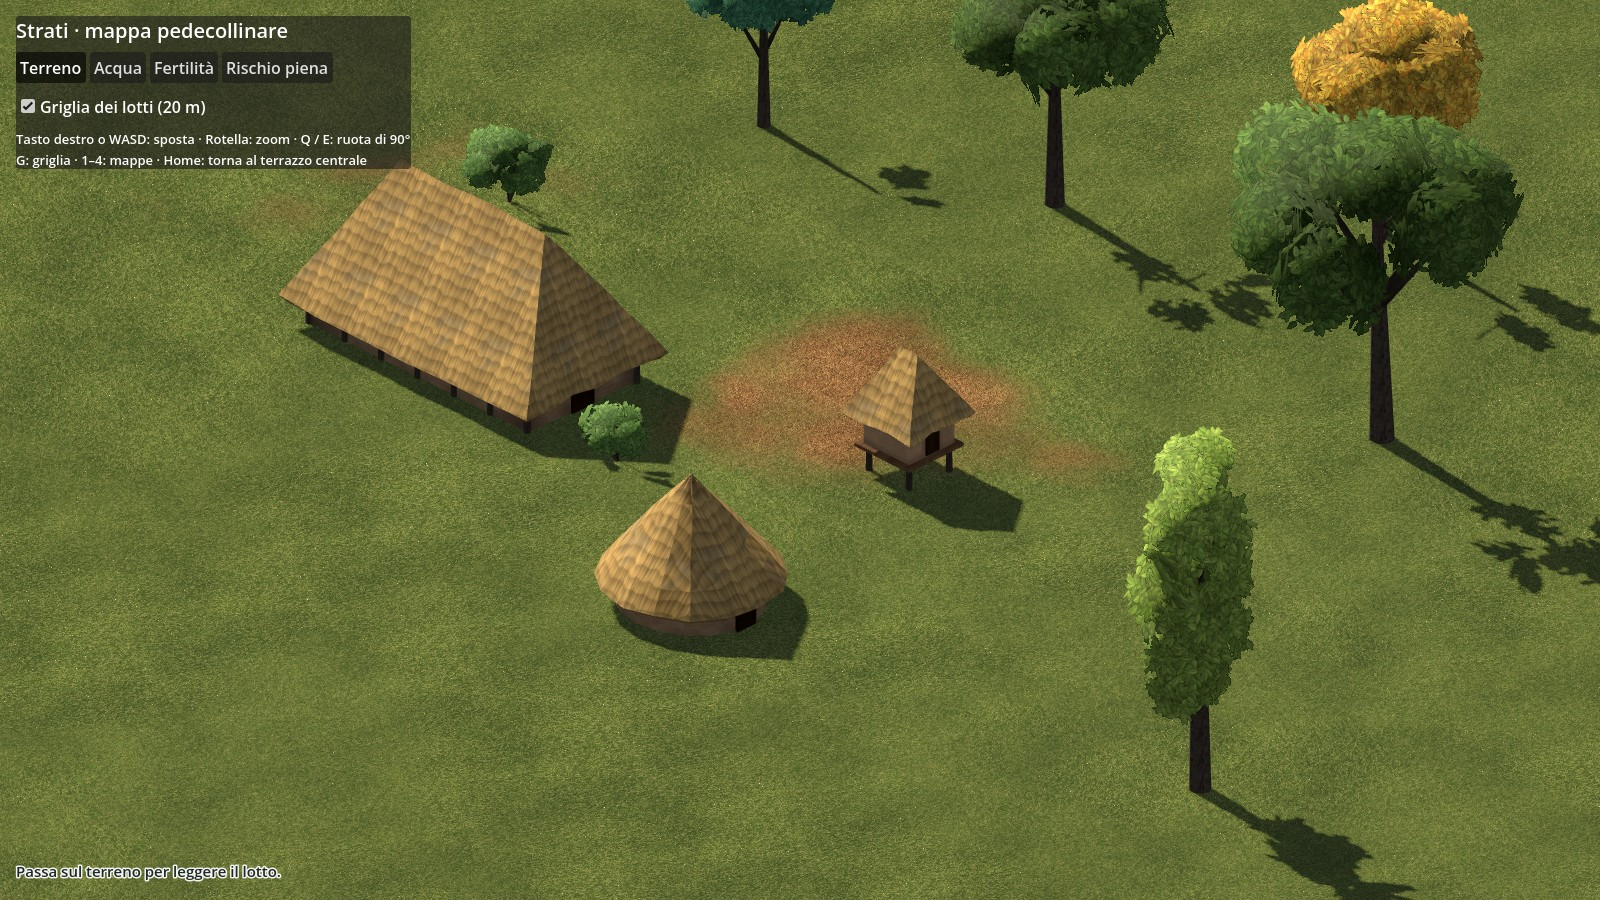
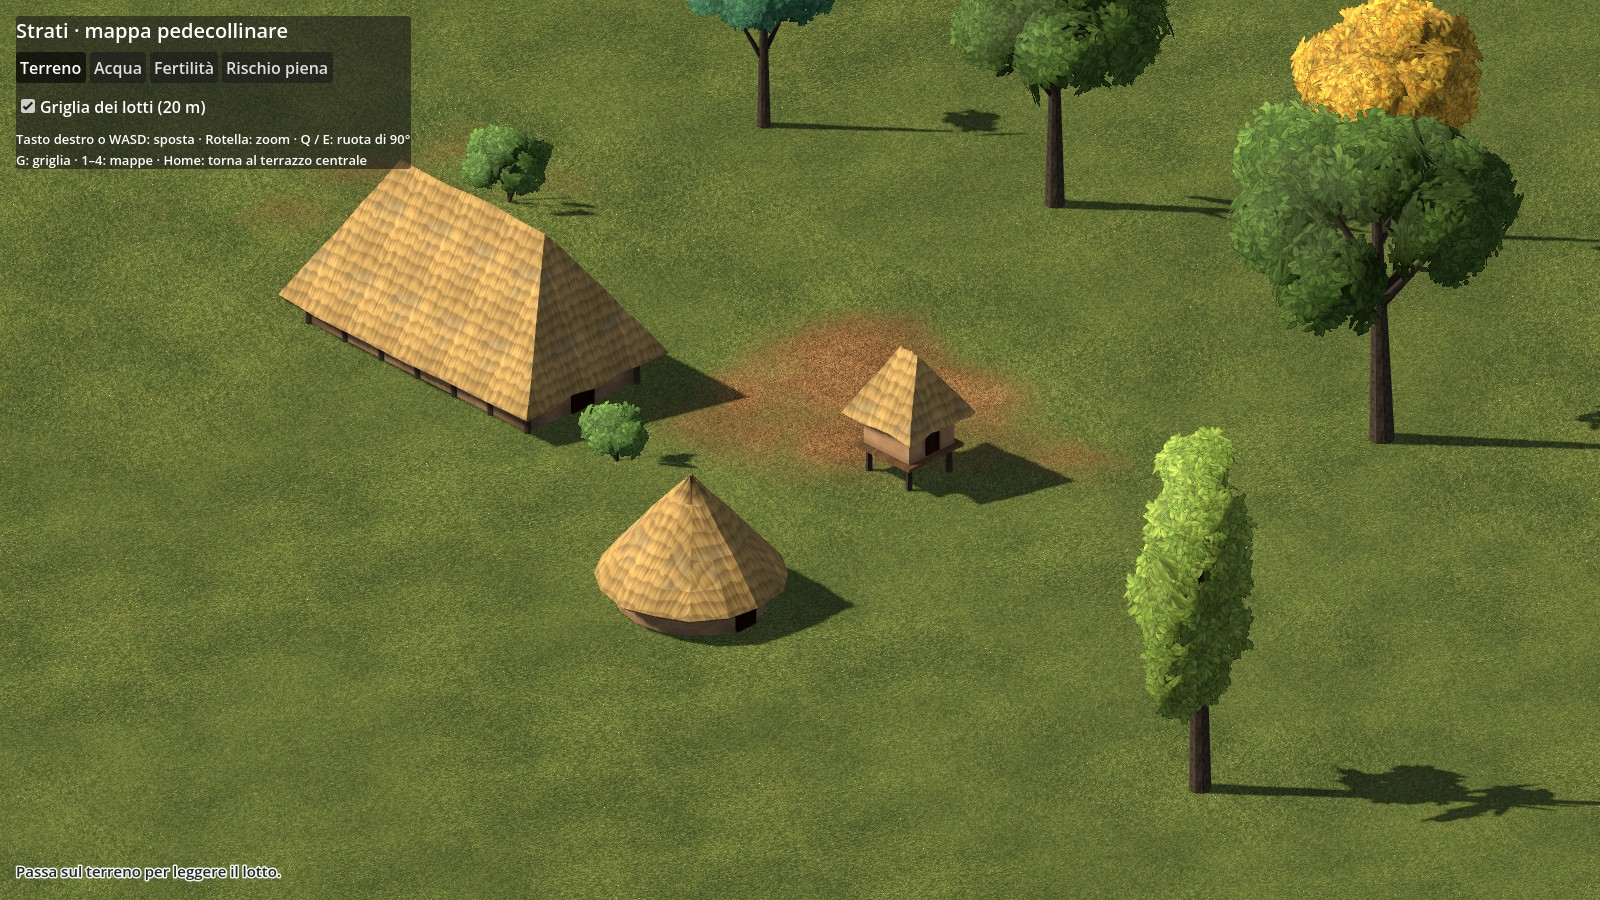
Sole da sinistra con ombre lunghe verso destra, come chiesto da Fede
Claude-Session: https://claude.ai/code/session_01N4eDGmuEoEcJQdC5u5KEMd

diff --git a/docs/diario.md b/docs/diario.md
@@ -12,7 +12,7 @@ Voci più recenti in cima.
 - **Base del progetto Godot** (`gioco/`): terreno 3D della mappa pedecollinare (10 × 10 km, griglia da 40 m, esagerazione verticale 1,5) con tinte ipsometriche, boschi, paludi, isoipse ogni 25 m e acque dai bordi morbidi; camera isometrica ortografica che ruota a scatti di 90° (Q/E), zoom con la rotella, spostamento con WASD o tasto destro; mappe tematiche Terreno, Acqua, Fertilità, Rischio piena (tasti 1–4); griglia dei lotti da 20 m visibile da vicino (G); lettura del lotto sotto il puntatore; etichette dei sei siti. Verifiche senza grafica tutte superate; immagini reali in `docs/immagini/`.
 - Primo lotto di asset in stile "plastico architettonico" (11 modelli): **scartato da Fede**, che vuole uno stile verosimile anche nei colori e alberi meno poligonali. Rimossi dal repository (restano nella cronologia di Git).
 - **Prova di stile verosimile** (`gioco/asset/prove_stile/`, 5 modelli: casa lunga, capanna tonda, granaio, due querce): texture procedurali generate da script (paglia, argilla, legno, corteccia, pietra, erba, foglie), tetti spessi e irregolari, pali a vista, querce con rami e chioma di foglie. Il terreno del gioco ora usa una texture d'erba tinta dalla zona. Seconda versione ispirata ad Age of Empires IV: texture più "dipinte", tetti più alti e sporgenti, occlusione ambientale cotta nei vertici, alberi più pieni in tre toni, prato più vivo. Guida in `docs/asset.md`, immagini in `docs/immagini/prova-stile-verosimile-*.png`.
-- **Terza versione di alberi e prato**, dopo il parere di Fede sulla seconda e le sue reference di AoE IV: zoom fino a 40 m; foglie singole e grandi, una texture per specie; chiome a lobi con normali sferiche e ombra interna calcolata; cinque specie (quercia, carpino, pioppo, acero autunnale, arbusto); prato a fili sottili con chiazze di erba secca e meno ripetizione; piani di taglio della camera stretti per ombre nitide da vicino. Dettagli in `docs/asset.md`, immagini in `docs/immagini/prova-stile-v3-*.jpg`. Ombre: Fede ha notato che mancavano del tutto. Non era un limite dell'ambiente di Claude ma due errori del progetto: il sole stava alle spalle della camera (ombre nascoste dietro gli oggetti) e la camera era a 20 km (ombre sfumate fino a sparire). Ora il sole gira con la camera e la distanza della camera segue lo zoom: le ombre si vedono e sono nitide da vicino.
+- **Terza versione di alberi e prato**, dopo il parere di Fede sulla seconda e le sue reference di AoE IV: zoom fino a 40 m; foglie singole e grandi, una texture per specie; chiome a lobi con normali sferiche e ombra interna calcolata; cinque specie (quercia, carpino, pioppo, acero autunnale, arbusto); prato a fili sottili con chiazze di erba secca e meno ripetizione; piani di taglio della camera stretti per ombre nitide da vicino. Dettagli in `docs/asset.md`, immagini in `docs/immagini/prova-stile-v3-*.jpg`. Ombre: Fede ha notato che mancavano del tutto. Non era un limite dell'ambiente di Claude ma due errori del progetto: il sole stava alle spalle della camera (ombre nascoste dietro gli oggetti) e la camera era a 20 km (ombre sfumate fino a sparire). Ora il sole gira con la camera (da sinistra, ombre lunghe verso destra, come chiesto da Fede) e la distanza della camera segue lo zoom: le ombre si vedono e sono nitide da vicino.
 - Strumenti nell'ambiente di Claude: Godot 4.7.2 senza grafica e Blender 5.3 come modulo Python; catena Blender → glTF → Godot provata con una casa lunga neolitica.
 
 **Decisioni (Fede)**
@@ -24,6 +24,7 @@ Voci più recenti in cima.
 - Godot 4.7.2 con renderer Compatibilità (tre PC con schede video diverse).
 - Base Godot: partire dal terreno, dalla camera isometrica e dalla griglia dei lotti.
 - Stile degli asset: verosimile, anche nei colori; no allo stile "plastico" e agli alberi con pochi poligoni. Riferimento per l'aspetto: Age of Empires IV.
+- Luce: sole da sinistra, ombre lunghe proiettate verso destra sullo schermo.
 - Seconda versione della prova di stile: direzione giusta. Da migliorare il prato (grossolano), il dettaglio a zoom ravvicinato e la forma e il riempimento delle chiome.
 
 **Prossimo passo**

diff --git a/docs/asset.md b/docs/asset.md
@@ -36,7 +36,7 @@
 - **Ombra interna calcolata:** per le chiome l'occlusione non si cuoce (con le carte così fitte verrebbe nera ovunque) ma si calcola dalla profondità nella chioma: scuro al centro e sotto, pieno sul guscio e in cima.
 - **Cinque specie:** quercia (larga, verde oliva), carpino (tondo, verde freddo), pioppo (colonnare, verde chiaro), acero in autunno (giallo e arancio), arbusto di nocciolo (senza tronco, con fusti dal suolo). L'acero autunnale serve a provare la varietà di colore: le stagioni nel gioco non sono ancora decise.
 - **Prato:** texture fatta di migliaia di fili sottili invece che di macchie; una seconda lettura ruotata della stessa texture e tre maschere a scale diverse (circa 70 m, 230 m, 1,4 km) spezzano la ripetizione; chiazze di erba secca rossiccia, più frequenti dove la zona è già asciutta.
-- **Ombre (corrette dopo la segnalazione di Fede, 23/11/2026):** mancavano per due motivi. (1) Il sole stava alle spalle della camera: ogni ombra cadeva dietro l'oggetto che la proiettava e restava nascosta, e tutto era illuminato di fronte, quindi piatto. Ora il sole gira con la camera e illumina di lato e da dietro (altezza 42°, 140° rispetto alla direzione dello sguardo: costanti `ALTEZZA_SOLE` e `AZIMUT_SOLE` in `principale.gd`), così le ombre cadono verso chi guarda a ogni rotazione. È una scelta di leggibilità: in un mondo realistico il sole non seguirebbe la camera. (2) La camera stava a 20 km dal punto guardato e le ombre del sole, che coprono lo spazio dalla camera alla distanza massima, sfumavano fino a sparire. Ora la distanza della camera segue lo zoom e la mappa d'ombra copre solo la fetta di terreno visibile: ombre nitide anche a 35 m. Sole un po' caldo, luce del cielo un po' fredda, così le ombre non vengono nere.
+- **Ombre (corrette dopo la segnalazione di Fede, 23/11/2026):** mancavano per due motivi. (1) Il sole stava alle spalle della camera: ogni ombra cadeva dietro l'oggetto che la proiettava e restava nascosta, e tutto era illuminato di fronte, quindi piatto. Ora il sole gira con la camera. **Decisione di Fede (23/11/2026): sole da sinistra, ombre lunghe verso destra sullo schermo**, a ogni rotazione (altezza 42°, 270° rispetto alla direzione dello sguardo: costanti `ALTEZZA_SOLE` e `AZIMUT_SOLE` in `principale.gd`). È una scelta di leggibilità: in un mondo realistico il sole non seguirebbe la camera. (2) La camera stava a 20 km dal punto guardato e le ombre del sole, che coprono lo spazio dalla camera alla distanza massima, sfumavano fino a sparire. Ora la distanza della camera segue lo zoom e la mappa d'ombra copre solo la fetta di terreno visibile: ombre nitide anche a 35 m. Sole un po' caldo, luce del cielo un po' fredda, così le ombre non vengono nere.
 - Immagini: `docs/immagini/prova-stile-v3-vicino.jpg` (vista di 35 m), `-medio.jpg` (70 m), `-territorio.jpg` (1500 m), `-foglie.jpg` (le quattro texture delle foglie).
 
 ## Regole tecniche
